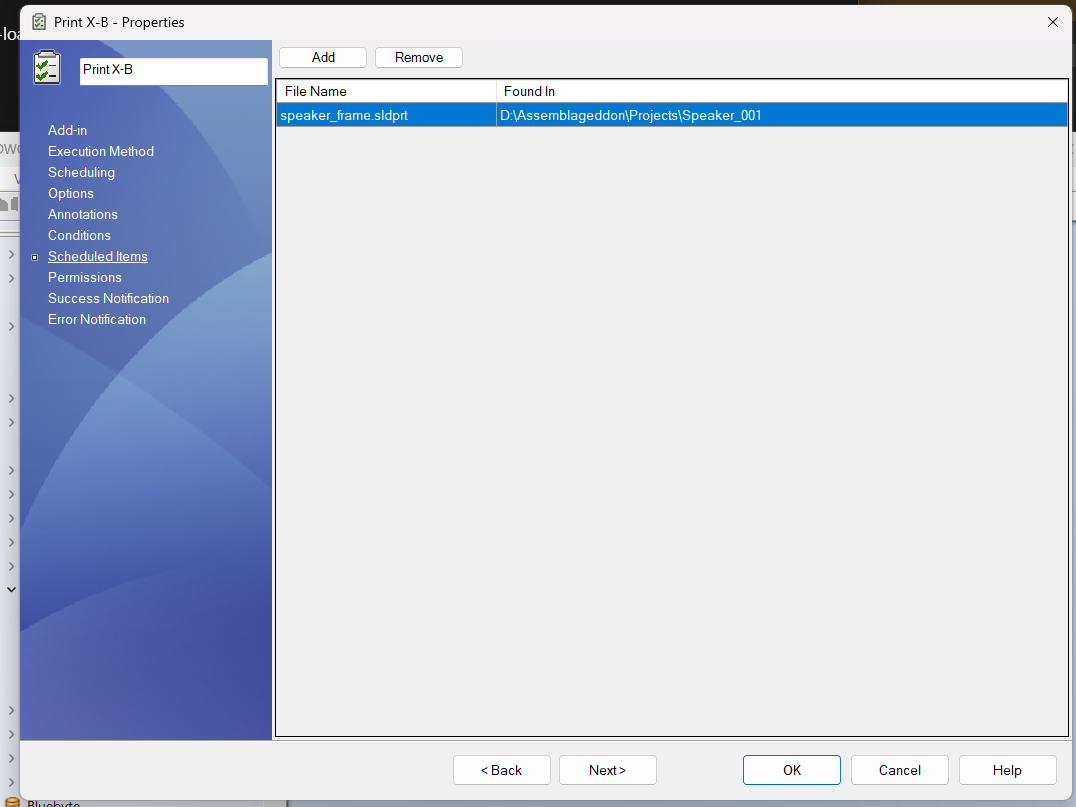
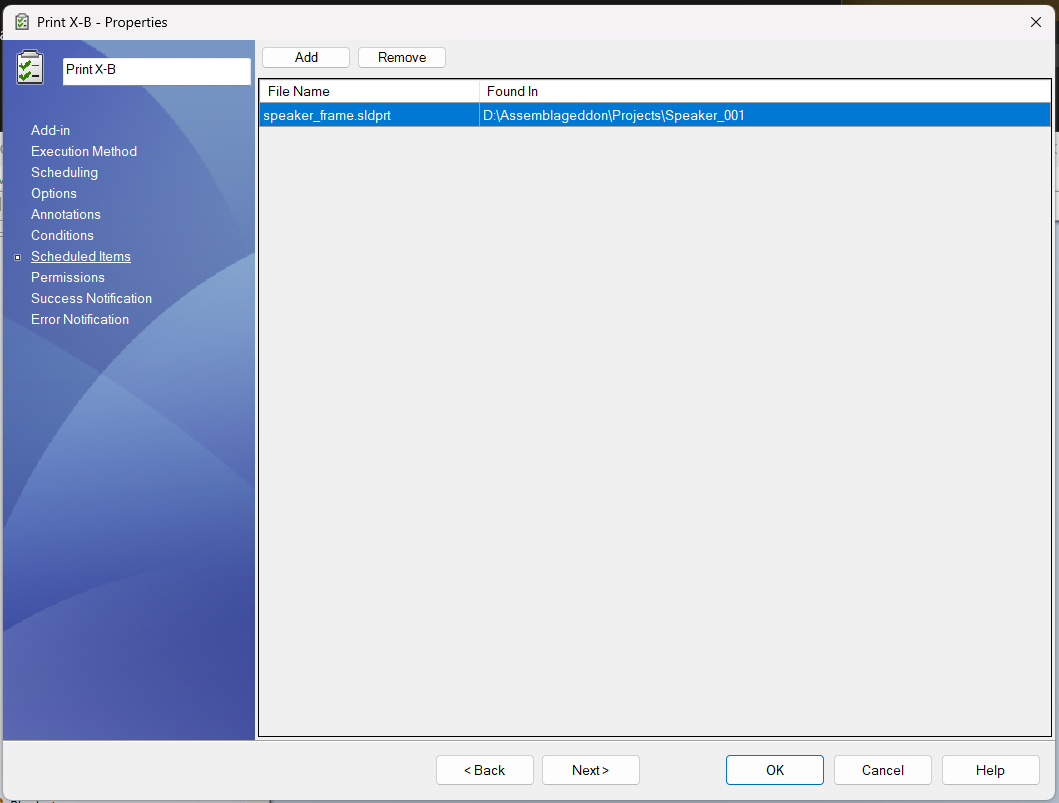
updated docs

diff --git a/docs/src/scheduleditems.html b/docs/src/scheduleditems.html
@@ -94,7 +94,11 @@
 </p>
 <h2 id="when-to-use-this-page">When to use this page</h2>
 <p>Use <strong>Scheduled Items</strong> when the task is expected to run on a schedule or from an automation that does not pass selected files to PDMPublisher.</p>
-<p>If files are selected when the task is launched, PDMPublisher processes the selected files as usual. If no files are selected, PDMPublisher uses the files configured on this page.</p>
+<p>If files are configured on this page, PDMPublisher uses the Scheduled Items list as the task input.</p>
+<div class="IMPORTANT">
+<h5>Important</h5>
+<p>Scheduled Items take priority over files selected from the right-click <strong>Tasks</strong> menu or any other launch method that passes selected files to PDMPublisher. If this page contains files, PDMPublisher processes the files listed here and ignores the files selected during launch. Only configure Scheduled Items for tasks that are intended to process the same saved list of files.</p>
+</div>
 <h2 id="adding-files">Adding files</h2>
 <p>Click <strong>Add</strong> to choose one or more SOLIDWORKS files from the vault.</p>
 <p>PDMPublisher stores the selected file ID and parent folder ID. These IDs are used later to rebuild the task input list when the scheduled task runs.</p>
@@ -124,7 +128,8 @@
 <li>The selected files must remain available in the vault.</li>
 <li>The task host must have permission to access the selected files and their folders.</li>
 <li>The task still uses the settings from the other setup pages, including <strong>Options</strong>, <strong>Annotations</strong>, and <strong>Conditions</strong>.</li>
-<li>If the task runs without selected files and no scheduled items are configured, the task will stop with an error.</li>
+<li>If this page contains files, those files are used even when the task is launched from a selected file in File Explorer.</li>
+<li>If no files are selected at launch and no scheduled items are configured, the task will stop with an error.</li>
 </ul>
 
 </article>

diff --git a/docs/src/propertiespagepdmpublisher.html b/docs/src/propertiespagepdmpublisher.html
@@ -179,7 +179,7 @@
 </tr>
 <tr>
 <td style="text-align: left;"><a href="../src/scheduleditems.html">Scheduled Items</a></td>
-<td style="text-align: left;">Defines which files should be processed when a scheduled task runs without selected files.</td>
+<td style="text-align: left;">Defines a saved list of files for the task to process. If this list contains files, it takes priority over files selected from the right-click Tasks menu.</td>
 </tr>
 </tbody>
 </table>

diff --git a/src/scheduleditems.md b/src/scheduleditems.md
@@ -18,7 +18,10 @@ This is useful for scheduled tasks and automated task launches where SOLIDWORKS 
 
 Use **Scheduled Items** when the task is expected to run on a schedule or from an automation that does not pass selected files to PDMPublisher.
 
-If files are selected when the task is launched, PDMPublisher processes the selected files as usual. If no files are selected, PDMPublisher uses the files configured on this page.
+If files are configured on this page, PDMPublisher uses the Scheduled Items list as the task input.
+
+> [!IMPORTANT]
+> Scheduled Items take priority over files selected from the right-click **Tasks** menu or any other launch method that passes selected files to PDMPublisher. If this page contains files, PDMPublisher processes the files listed here and ignores the files selected during launch. Only configure Scheduled Items for tasks that are intended to process the same saved list of files.
 
 ## Adding files
 
@@ -42,4 +45,5 @@ Select one or more rows and click **Remove** to remove them from the scheduled i
 - The selected files must remain available in the vault.
 - The task host must have permission to access the selected files and their folders.
 - The task still uses the settings from the other setup pages, including **Options**, **Annotations**, and **Conditions**.
-- If the task runs without selected files and no scheduled items are configured, the task will stop with an error.
+- If this page contains files, those files are used even when the task is launched from a selected file in File Explorer.
+- If no files are selected at launch and no scheduled items are configured, the task will stop with an error.

diff --git a/src/propertiespagepdmpublisher.md b/src/propertiespagepdmpublisher.md
@@ -71,4 +71,4 @@ To create a new task with **PDMPublisher**:
 |[Options](../src/options.html)|Options define how files will be printed. See the options page for more details.|
 |[Annotations](../src/annotations.html)|Defines aliased notes that can contain text and datacard variables and define their locations in the drawing.|
 |[Conditions](../src/conditions.html)|Defines which files to include in the save queues when processing top-level assemblies.|
-|[Scheduled Items](../src/scheduleditems.html)|Defines which files should be processed when a scheduled task runs without selected files.|
+|[Scheduled Items](../src/scheduleditems.html)|Defines a saved list of files for the task to process. If this list contains files, it takes priority over files selected from the right-click Tasks menu.|